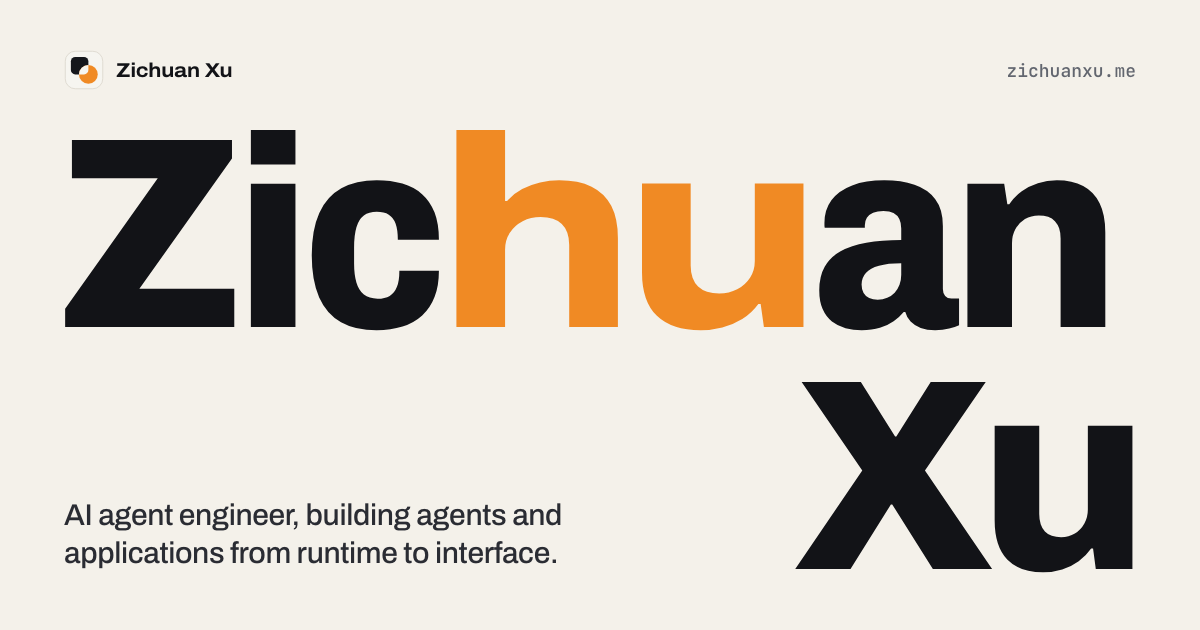
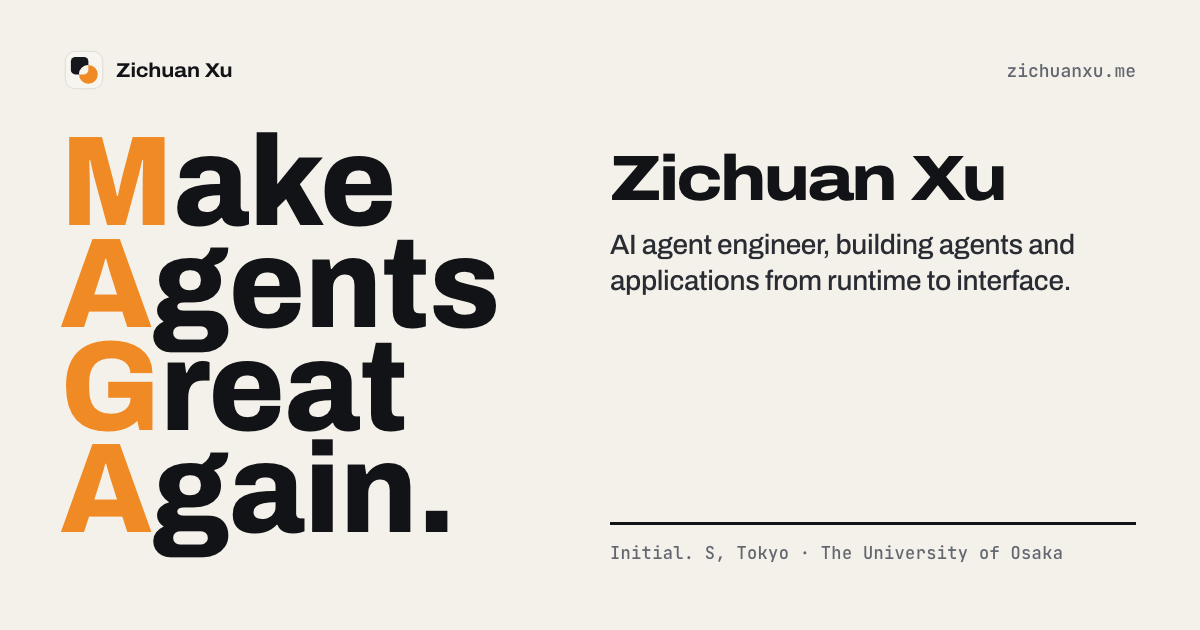
hero: "Make Agents Great Again." with the name in a right column
The hero's big type is now four stacked lines, Make / Agents / Great /
Again., initials in orange, sized so the hero fits one screen. The
right column carries the name (now the visible h1), the intro, four
cells that link to the current job, Osaka, the latest paper and earlier
roles, and the buttons. The About section is folded into it, and the
Initial. S row no longer names its two products. The social card is
redrawn to match.

Changed region(s): [[0.0308, 0.181, 0.925, 0.9048], [0.5242, 0.6032, 0.9558, 0.9048], [0.5242, 0.8746, 0.5858, 0.9048]]

diff --git a/_pages/about.html b/_pages/about.html
@@ -27,7 +27,7 @@ sitemap: true
   <meta property="og:image" content="{{ site.url }}/images/og-card.png" />
   <meta property="og:image:width" content="1200" />
   <meta property="og:image:height" content="630" />
-  <meta property="og:image:alt" content="Zichuan Xu, AI agent engineer" />
+  <meta property="og:image:alt" content="Make Agents Great Again. Zichuan Xu, AI agent engineer" />
   <meta name="twitter:card" content="summary_large_image" />
   <meta name="twitter:title" content="Zichuan Xu" />
   <meta name="twitter:description" content="{{ page.description }}" />
@@ -66,42 +66,35 @@ sitemap: true
   <!-- ================================ hero ================================ -->
   <section class="hero" id="top" aria-label="Introduction">
     <div class="wrap">
-      <div class="status">
-        <span class="now-dot" aria-hidden="true"></span>
-        <p>Now at <b>Initial. S</b>, Tokyo<br>Master&rsquo;s student, <b>The University of Osaka</b></p>
-      </div>
-      <h1 class="sr-only">Zichuan Xu</h1>
-      <div class="kline l1" aria-hidden="true"><span>Z</span><span>i</span><span>c</span><span>h</span><span>u</span><span>a</span><span>n</span></div>
-      <div class="hero-row">
-        <div class="copy">
-          <p class="lede">AI agent engineer, building agents and applications from runtime to interface.</p>
-          <div class="cta">
-            <a class="btn primary" href="mailto:xu.zichuan@ist.osaka-u.ac.jp"><svg viewBox="0 0 24 24" fill="none" stroke="currentColor" stroke-width="2" stroke-linecap="round" stroke-linejoin="round" aria-hidden="true"><rect x="2" y="4" width="20" height="16" rx="2"/><path d="m22 7-10 6L2 7"/></svg>Email me</a>
-            <a class="btn" href="https://github.com/zichuanxu" rel="me noopener" target="_blank"><svg viewBox="0 0 24 24" fill="currentColor" aria-hidden="true"><path d="M12 .3a12 12 0 0 0-3.8 23.4c.6.1.8-.3.8-.6v-2c-3.3.7-4-1.6-4-1.6-.6-1.4-1.4-1.8-1.4-1.8-1.1-.7.1-.7.1-.7 1.2.1 1.9 1.2 1.9 1.2 1.1 1.9 2.9 1.3 3.6 1 .1-.8.4-1.3.8-1.6-2.7-.3-5.5-1.3-5.5-5.9 0-1.3.5-2.4 1.2-3.2-.1-.3-.5-1.5.1-3.2 0 0 1-.3 3.3 1.2a11.5 11.5 0 0 1 6 0c2.3-1.5 3.3-1.2 3.3-1.2.6 1.7.2 2.9.1 3.2.8.8 1.2 1.9 1.2 3.2 0 4.6-2.8 5.6-5.5 5.9.4.4.8 1.1.8 2.2v3.3c0 .3.2.7.8.6A12 12 0 0 0 12 .3Z"/></svg>GitHub</a>
-            <a class="btn" href="https://www.linkedin.com/in/zichuanxu/" rel="me noopener" target="_blank"><svg viewBox="0 0 24 24" fill="currentColor" aria-hidden="true"><path d="M20.45 20.45h-3.56v-5.57c0-1.33-.02-3.04-1.85-3.04-1.86 0-2.14 1.45-2.14 2.94v5.67H9.35V9h3.41v1.56h.05a3.74 3.74 0 0 1 3.37-1.85c3.6 0 4.27 2.37 4.27 5.46v6.28ZM5.34 7.43a2.07 2.07 0 1 1 0-4.14 2.07 2.07 0 0 1 0 4.14Zm1.78 13.02H3.55V9h3.57v11.45ZM22.22 0H1.77C.79 0 0 .77 0 1.72v20.56C0 23.23.79 24 1.77 24h20.45c.98 0 1.78-.77 1.78-1.72V1.72C24 .77 23.2 0 22.22 0Z"/></svg>LinkedIn</a>
-          </div>
+      <p class="sr-only">Make Agents Great Again.</p>
+      <div class="hero-grid">
+        <div class="hero-words" aria-hidden="true">
+          <div class="kline"><span class="ac">M</span><span>a</span><span>k</span><span>e</span></div>
+          <div class="kline"><span class="ac">A</span><span>g</span><span>e</span><span>n</span><span>t</span><span>s</span></div>
+          <div class="kline"><span class="ac">G</span><span>r</span><span>e</span><span>a</span><span>t</span></div>
+          <div class="kline"><span class="ac">A</span><span>g</span><span>a</span><span>i</span><span>n</span><span>.</span></div>
         </div>
-        <div class="kline l2" aria-hidden="true"><span>X</span><span>u</span></div>
+        <div class="hero-side">
+          <div>
+            <h1 class="hero-name">Zichuan Xu</h1>
+            <p class="lede">AI agent engineer, building agents and applications from runtime to interface.</p>
+          </div>
+          <div class="cells">
+            <a class="cell" href="#stop-initial-s"><span class="k"><span class="now-dot" aria-hidden="true"></span>Now</span><span class="v">AI Agent Development Engineer</span><span class="m">Initial. S, Tokyo · Apr 2026 → now</span><svg class="go" viewBox="0 0 24 24" fill="none" stroke="currentColor" stroke-width="2" aria-hidden="true"><path d="M7 7 17 17M17 8v9H8"/></svg></a>
+            <a class="cell" href="#edu-osaka"><span class="k">Study</span><span class="v">The University of Osaka</span><span class="m">Researching LLMs, Agents, and Benchmarking.</span><svg class="go" viewBox="0 0 24 24" fill="none" stroke="currentColor" stroke-width="2" aria-hidden="true"><path d="M7 7 17 17M17 8v9H8"/></svg></a>
+            <a class="cell" href="#pub-toolbottleneckbench"><span class="k">Latest paper</span><span class="v">ToolBottleneckBench</span><span class="m">Tool-agent performance under controlled pressures and fixed harness budgets · arXiv 2026</span><svg class="go" viewBox="0 0 24 24" fill="none" stroke="currentColor" stroke-width="2" aria-hidden="true"><path d="M7 7 17 17M17 8v9H8"/></svg></a>
+            <a class="cell" href="#stop-rakuten"><span class="k">Before</span><span class="v">Rakuten · Dameng · NSFOCUS · Virginia Tech</span><span class="m">From security and database tooling to agent systems and full-stack products.</span><svg class="go" viewBox="0 0 24 24" fill="none" stroke="currentColor" stroke-width="2" aria-hidden="true"><path d="M7 7 17 17M17 8v9H8"/></svg></a>
+          </div>
+        <div class="cta">
+          <a class="btn primary" href="mailto:xu.zichuan@ist.osaka-u.ac.jp"><svg viewBox="0 0 24 24" fill="none" stroke="currentColor" stroke-width="2" stroke-linecap="round" stroke-linejoin="round" aria-hidden="true"><rect x="2" y="4" width="20" height="16" rx="2"/><path d="m22 7-10 6L2 7"/></svg>Email me</a>
+          <a class="btn" href="https://github.com/zichuanxu" rel="me noopener" target="_blank"><svg viewBox="0 0 24 24" fill="currentColor" aria-hidden="true"><path d="M12 .3a12 12 0 0 0-3.8 23.4c.6.1.8-.3.8-.6v-2c-3.3.7-4-1.6-4-1.6-.6-1.4-1.4-1.8-1.4-1.8-1.1-.7.1-.7.1-.7 1.2.1 1.9 1.2 1.9 1.2 1.1 1.9 2.9 1.3 3.6 1 .1-.8.4-1.3.8-1.6-2.7-.3-5.5-1.3-5.5-5.9 0-1.3.5-2.4 1.2-3.2-.1-.3-.5-1.5.1-3.2 0 0 1-.3 3.3 1.2a11.5 11.5 0 0 1 6 0c2.3-1.5 3.3-1.2 3.3-1.2.6 1.7.2 2.9.1 3.2.8.8 1.2 1.9 1.2 3.2 0 4.6-2.8 5.6-5.5 5.9.4.4.8 1.1.8 2.2v3.3c0 .3.2.7.8.6A12 12 0 0 0 12 .3Z"/></svg>GitHub</a>
+          <a class="btn" href="https://www.linkedin.com/in/zichuanxu/" rel="me noopener" target="_blank"><svg viewBox="0 0 24 24" fill="currentColor" aria-hidden="true"><path d="M20.45 20.45h-3.56v-5.57c0-1.33-.02-3.04-1.85-3.04-1.86 0-2.14 1.45-2.14 2.94v5.67H9.35V9h3.41v1.56h.05a3.74 3.74 0 0 1 3.37-1.85c3.6 0 4.27 2.37 4.27 5.46v6.28ZM5.34 7.43a2.07 2.07 0 1 1 0-4.14 2.07 2.07 0 0 1 0 4.14Zm1.78 13.02H3.55V9h3.57v11.45ZM22.22 0H1.77C.79 0 0 .77 0 1.72v20.56C0 23.23.79 24 1.77 24h20.45c.98 0 1.78-.77 1.78-1.72V1.72C24 .77 23.2 0 22.22 0Z"/></svg>LinkedIn</a>
+        </div>
+        </div>
       </div>
     </div>
   </section>
 
-  <!-- ================================ about =============================== -->
-  <section class="about" aria-labelledby="about-title">
-    <div class="wrap">
-      <p class="eyebrow" id="about-title">About</p>
-      <p class="about-lead">From security and database tooling to agent systems and full-stack products.</p>
-      <div class="about-cols">
-        <p class="about-mid">Useful agents need more than a model. They need tools, context, and a product around them.</p>
-        <p class="about-body">At Initial. S, I develop KuraClaw, KuraWork, and their shared cloud services. My work connects agent execution and tool integrations with React interfaces, Go APIs, and the authentication, model routing, and usage accounting behind them.</p>
-        <div class="pairs reveal">
-          <p class="k">I work across the boundaries.</p>
-          <p class="pair">From a tool call to <span class="t">a completed workflow</span>.</p>
-          <p class="pair">From the backend contract to <span class="t">the user experience</span>.</p>
-        </div>
-      </div>
-    </div>
-  </section>
 
   <!-- ============================== experience ============================ -->
   <section class="sec" id="experience" aria-labelledby="experience-title">
@@ -117,15 +110,15 @@ sitemap: true
         <div class="row-main">
           <h3 class="row-title"><a href="https://initial-s.com/" target="_blank" rel="noopener">Initial. S Co. Ltd.</a></h3>
           <p class="row-role"><b>AI Agent Development Engineer</b> · Tokyo, Japan</p>
-          <p class="row-desc">Building <strong>agent products for everyday work</strong>: KuraWork, a desktop workspace for expert-guided tasks and business workflows, and KuraClaw, a personal assistant connecting knowledge, files, and daily tools. I contribute across the product interfaces, agent harnesses, and shared cloud services.</p>
+          <p class="row-desc">Building <strong>agent products for everyday work</strong>: a desktop workspace for expert-guided tasks and business workflows, and a personal assistant connecting knowledge, files, and daily tools. I contribute across the product interfaces, agent harnesses, and shared cloud services.</p>
           <div class="groups">
             <div class="group">
-              <h4>KuraWork</h4>
+              <h4>Desktop workspace</h4>
               <article><h5>From an open-ended prompt to a configured workflow.</h5><p>Helped develop a work-oriented product around the native Codex engine, with searchable Inspiration templates, domain experts, and project spaces. Templates prepare editable task drafts; projects carry default experts, skills, and connector selections that individual tasks can override. This packages reusable task setup around the engine rather than asking users to assemble it each time.</p></article>
               <article><h5>Execution connected to real work.</h5><p>Integrated native tool execution, permissions, and delegated-agent conversations with the desktop UI and model services. Connected account, model, and shared-file workflows across React, Electron, and cloud APIs, bringing model selection, subscription usage, and role-controlled file sharing into the desktop workspace.</p></article>
             </div>
             <div class="group">
-              <h4>KuraClaw</h4>
+              <h4>Personal assistant</h4>
               <article><h5>Searchable personal knowledge.</h5><p>Developed a memory repository with hybrid search, article relationships, and interactive knowledge graphs, alongside agent-accessible mail search and retrieval. Connected Go data services to browsing, filtering, and reading interfaces so users and agents can find and reuse information beyond the current conversation.</p></article>
               <article><h5>Daily assistance beyond chat.</h5><p>Built calendar views, recurring events, reminders, and task controls, with reminders delivered through agent channels. Extended email, calendar, cloud-drive, and GitHub integrations; supported scheduled workflows and background transcription alongside the product&rsquo;s photo library and file management. These capabilities connect information, actions, and follow-up in one assistant.</p></article>
             </div>
@@ -381,12 +374,15 @@ sitemap: true
   (() => {
     const still = window.matchMedia('(prefers-reduced-motion: reduce)').matches;
 
-    /* The name: every letter's width (font-stretch) is animated. The letters open
-       from 62% on load; idle, a slow wave runs through them; near the pointer a
-       letter widens and turns orange. Both lines share one size, fitted so that
-       "Zichuan" spans the content box. */
+    /* "Make Agents Great Again.": every letter's width (font-stretch) is animated.
+       The letters open from 62% on load; idle, a slow wave runs through them; near
+       the pointer a letter widens and turns orange. The four lines share one size:
+       on wide screens about a tenth of the viewport width (so the hero stays short),
+       in one column fitted to the content box. Their column is pinned to the fitted
+       width so the right side does not move while the letters breathe. */
     const hero = document.querySelector('.hero');
-    const lines = [...document.querySelectorAll('.kline')];
+    const grid = hero.querySelector('.hero-grid');
+    const lines = [...hero.querySelectorAll('.kline')];
     const letters = lines.flatMap((line) => [...line.children]);
     const width = letters.map(() => (still ? 96 : 62));
     const heat = letters.map(() => 0);
@@ -395,14 +391,17 @@ sitemap: true
       el.style.setProperty('--h', heat[i].toFixed(3));
     });
     const fit = () => {
-      const box = lines[0].parentElement;
+      const box = hero.querySelector('.wrap');
       const cs = getComputedStyle(box);
       const inner = box.clientWidth - parseFloat(cs.paddingLeft) - parseFloat(cs.paddingRight);
       if (!(inner > 0)) return; // hidden or zero-size viewport: keep the CSS size, fit again once visible
       letters.forEach((el) => { el.style.fontStretch = '96%'; });
       lines.forEach((line) => { line.style.fontSize = '100px'; });
-      const size = Math.min((100 * inner * 0.94) / lines[0].getBoundingClientRect().width, 340);
+      const widest = Math.max(...lines.map((line) => line.getBoundingClientRect().width));
+      const cap = window.innerWidth > 900 ? Math.min(165, window.innerWidth * 0.108) : 120;
+      const size = Math.min((100 * inner * 0.96) / widest, cap);
       lines.forEach((line) => { line.style.fontSize = `${size.toFixed(1)}px`; });
+      grid.style.setProperty('--stack-w', `${Math.ceil(((widest * size) / 100) * 1.08)}px`);
       paint();
     };
     let pointer = null;

diff --git a/assets/css/site-2026.css b/assets/css/site-2026.css
@@ -109,53 +109,47 @@ button { font: inherit; color: inherit; }
 @media (max-width: 900px) { .nav { display: none; } }
 
 /* =========================================================================
-   Hero: the name is the graphic
+   Hero: "Make Agents Great Again." in four kinetic lines, the owner on the right
    ========================================================================= */
-.hero { overflow: hidden; padding-block: clamp(20px, 3vw, 36px) clamp(48px, 6vw, 80px); }
-.status { display: flex; align-items: flex-start; gap: 12px; }
-.status p { font-size: 14px; line-height: 1.45; color: var(--mute); }
-.status b { color: var(--ink); font-weight: 600; }
+.hero { overflow: hidden; padding-block: clamp(28px, 3.4vw, 48px) clamp(8px, 1.5vw, 24px); }
+.hero-grid { display: grid; grid-template-columns: var(--stack-w, max-content) minmax(0, 1fr); align-items: stretch; gap: 32px clamp(40px, 5vw, 88px); }
 .now-dot { width: 11px; height: 11px; flex: none; margin-top: 4px; border-radius: 50%; background: var(--accent); }
 /* Each letter is a span whose width (font-stretch) the page script animates.
    Without the script the lines sit at 96% and the CSS size below. */
-.kline { display: block; width: max-content; font-size: clamp(64px, 22vw, 340px); font-weight: 800; line-height: .8; letter-spacing: -.035em; white-space: nowrap; user-select: none; }
+.kline { display: block; width: max-content; font-size: clamp(64px, 10vw, 150px); font-weight: 800; line-height: .8; letter-spacing: -.035em; white-space: nowrap; user-select: none; }
 .kline span { display: inline-block; font-stretch: 96%; color: color-mix(in oklab, var(--accent) calc(var(--h, 0) * 100%), var(--ink)); }
-.kline.l1 { margin-top: clamp(16px, 2.4vw, 30px); }
-.hero-row { display: grid; grid-template-columns: minmax(0, 1fr) auto; align-items: end; gap: 24px 40px; }
-.hero-row .copy { max-width: 520px; padding-bottom: .9vw; }
-.kline.l2 { justify-self: end; }
-.lede { max-width: 32ch; font-size: clamp(20px, 2vw, 27px); font-weight: 500; line-height: 1.28; letter-spacing: -.012em; color: var(--ink-2); }
-.cta { display: flex; flex-wrap: wrap; gap: 10px; margin-top: 24px; }
+.kline span.ac { color: var(--accent); }
+/* right column: name and intro, four cells that link down the page, buttons */
+.hero-side { display: flex; flex-direction: column; justify-content: space-between; gap: 26px; min-width: 0; padding-top: .9vw; }
+.hero-name { font-size: clamp(40px, 4.2vw, 64px); font-weight: 800; font-stretch: 118%; line-height: .92; letter-spacing: -.04em; }
+.lede { max-width: 36ch; margin-top: 14px; font-size: clamp(18px, 1.65vw, 23px); font-weight: 500; line-height: 1.3; letter-spacing: -.012em; color: var(--ink-2); }
+.cells { display: grid; grid-template-columns: repeat(2, minmax(0, 1fr)); border-top: 3px solid var(--ink); }
+.cell { position: relative; display: flex; flex-direction: column; gap: 8px; padding: 16px 18px 18px 0; border-bottom: 1px solid var(--rule); text-decoration: none; }
+.cell:nth-child(2n) { padding-left: 20px; border-left: 1px solid var(--rule); }
+.cell .k { display: flex; align-items: center; gap: 8px; font: 500 11.5px/1 var(--mono); letter-spacing: .08em; text-transform: uppercase; color: var(--mute); }
+.cell .k .now-dot { width: 8px; height: 8px; margin: 0; }
+.cell .v { font-size: clamp(18px, 1.55vw, 22px); font-weight: 700; font-stretch: 104%; line-height: 1.2; letter-spacing: -.015em; }
+.cell .m { font-size: 14px; line-height: 1.45; color: var(--mute); }
+.cell .go { position: absolute; top: 14px; right: 12px; width: 16px; height: 16px; color: var(--accent); }
+/* the arrow only waits for hover when the script runs; without it, it always shows */
+.has-js .cell .go { opacity: 0; }
+.cell:hover .v, .cell:focus-visible .v { font-stretch: 112%; }
+.has-js .cell:hover .go, .has-js .cell:focus-visible .go { opacity: 1; }
+.cta { display: flex; flex-wrap: wrap; gap: 10px; }
 .btn { display: inline-flex; align-items: center; gap: 8px; padding: 13px 20px; border-radius: 999px; border: 2px solid var(--ink); font-size: 15px; font-weight: 600; line-height: 1; text-decoration: none; transition: background-color .2s, color .2s, border-color .2s; }
 .btn svg { width: 16px; height: 16px; flex: none; }
 .btn:hover, .btn.primary { background: var(--ink); color: var(--paper); }
 .btn.primary:hover { background: var(--accent); border-color: var(--accent); color: #121317; }
-@media (max-width: 1000px) {
-  .hero-row { grid-template-columns: minmax(0, 1fr); }
-  .kline.l2 { order: -1; justify-self: start; }
-  .hero-row .copy { margin-top: 28px; padding-bottom: 0; }
+@media (max-width: 900px) {
+  .hero-grid { grid-template-columns: minmax(0, 1fr); }
+  .hero-side { display: contents; }
 }
 @media (max-width: 480px) {
+  .cells { grid-template-columns: minmax(0, 1fr); }
+  .cell:nth-child(2n) { padding-left: 0; border-left: 0; }
   .cta .btn { flex: 1 1 calc(50% - 5px); justify-content: center; }
   .cta .btn.primary { flex-basis: 100%; }
 }
-
-/* =========================================================================
-   About
-   ========================================================================= */
-.about { border-top: 3px solid var(--ink); }
-.about .wrap { padding-block: clamp(36px, 4vw, 56px) clamp(28px, 3vw, 40px); }
-.about .eyebrow { margin-bottom: 14px; }
-/* the lead runs full width; the rest sits below it in three even columns */
-.about-lead { max-width: 40ch; font-size: clamp(28px, 3.3vw, 46px); font-weight: 700; line-height: 1.1; letter-spacing: -.03em; }
-.about-cols { display: grid; grid-template-columns: repeat(3, minmax(0, 1fr)); gap: 24px 48px; margin-top: clamp(24px, 2.6vw, 36px); padding-top: 22px; border-top: 1px solid var(--rule); }
-.about-mid { font-size: 19px; font-weight: 600; line-height: 1.4; letter-spacing: -.01em; }
-.about-body { font-size: 16px; line-height: 1.6; color: var(--mute); }
-.pairs { display: grid; align-content: start; gap: 4px; }
-.pairs .k { margin-bottom: 4px; font-size: 19px; font-weight: 600; line-height: 1.4; letter-spacing: -.01em; }
-.pair { font-size: 16px; line-height: 1.6; color: var(--mute); }
-.pair .t { color: var(--ink); font-weight: 600; background: linear-gradient(var(--accent), var(--accent)) 0 100% / 100% 2px no-repeat; }
-@media (max-width: 900px) { .about-cols { grid-template-columns: minmax(0, 1fr); gap: 16px; } }
 
 /* =========================================================================
    Sections
@@ -327,9 +321,10 @@ button { font: inherit; color: inherit; }
   .has-js .reveal.is-now .yr { -webkit-text-stroke-color: var(--accent); background-image: linear-gradient(var(--accent), var(--accent)); }
   .has-js .reveal.in .yr { background-size: 100% 100%; font-stretch: 84%; }
   .has-js .reveal .yr small { color: var(--mute); }
-  /* the destination of each "From … to …" pair is underlined as it scrolls in */
-  .has-js .pairs.reveal .t { background-size: 0% 2px; transition: background-size 1s var(--ease) .2s; }
-  .has-js .pairs.reveal.in .t { background-size: 100% 2px; }
+  /* hero cells: the value widens and the arrow slides in on hover */
+  .cell .v { transition: font-stretch .4s var(--ease); }
+  .cell .go { transform: translate(-4px, 4px); transition: opacity .25s, transform .35s var(--ease); }
+  .cell:hover .go, .cell:focus-visible .go { transform: none; }
   /* skills: tiles settle in turn once their row is revealed */
   .has-js .reveal .tile { opacity: 0; transform: translateY(8px); transition: opacity .45s var(--ease), transform .45s var(--ease); transition-delay: calc(.12s + var(--i, 0) * 45ms); }
   .has-js .reveal.in .tile { opacity: 1; transform: none; }
